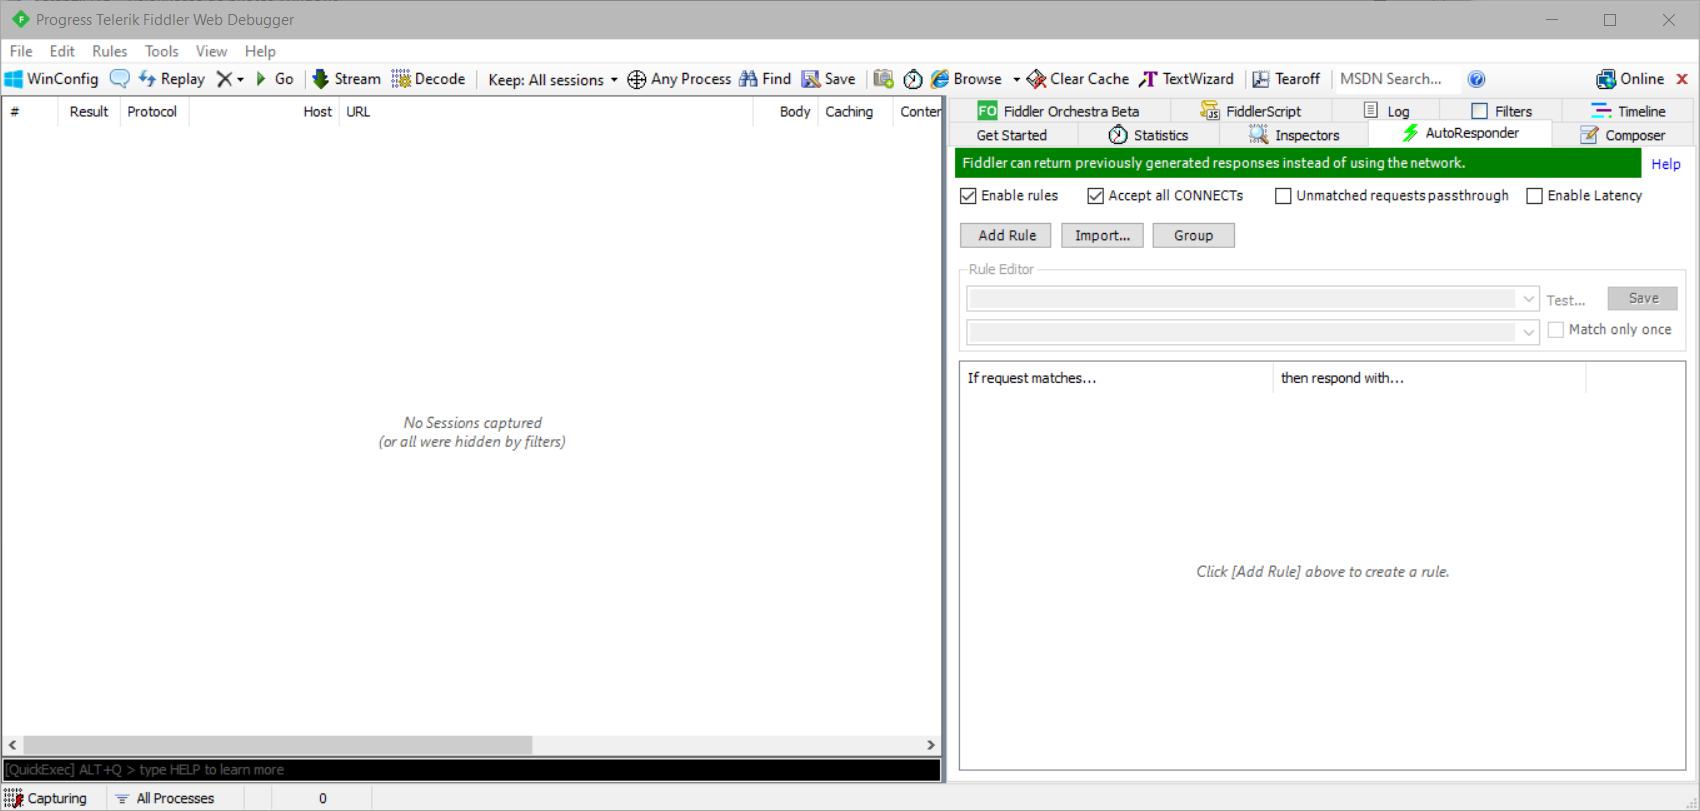
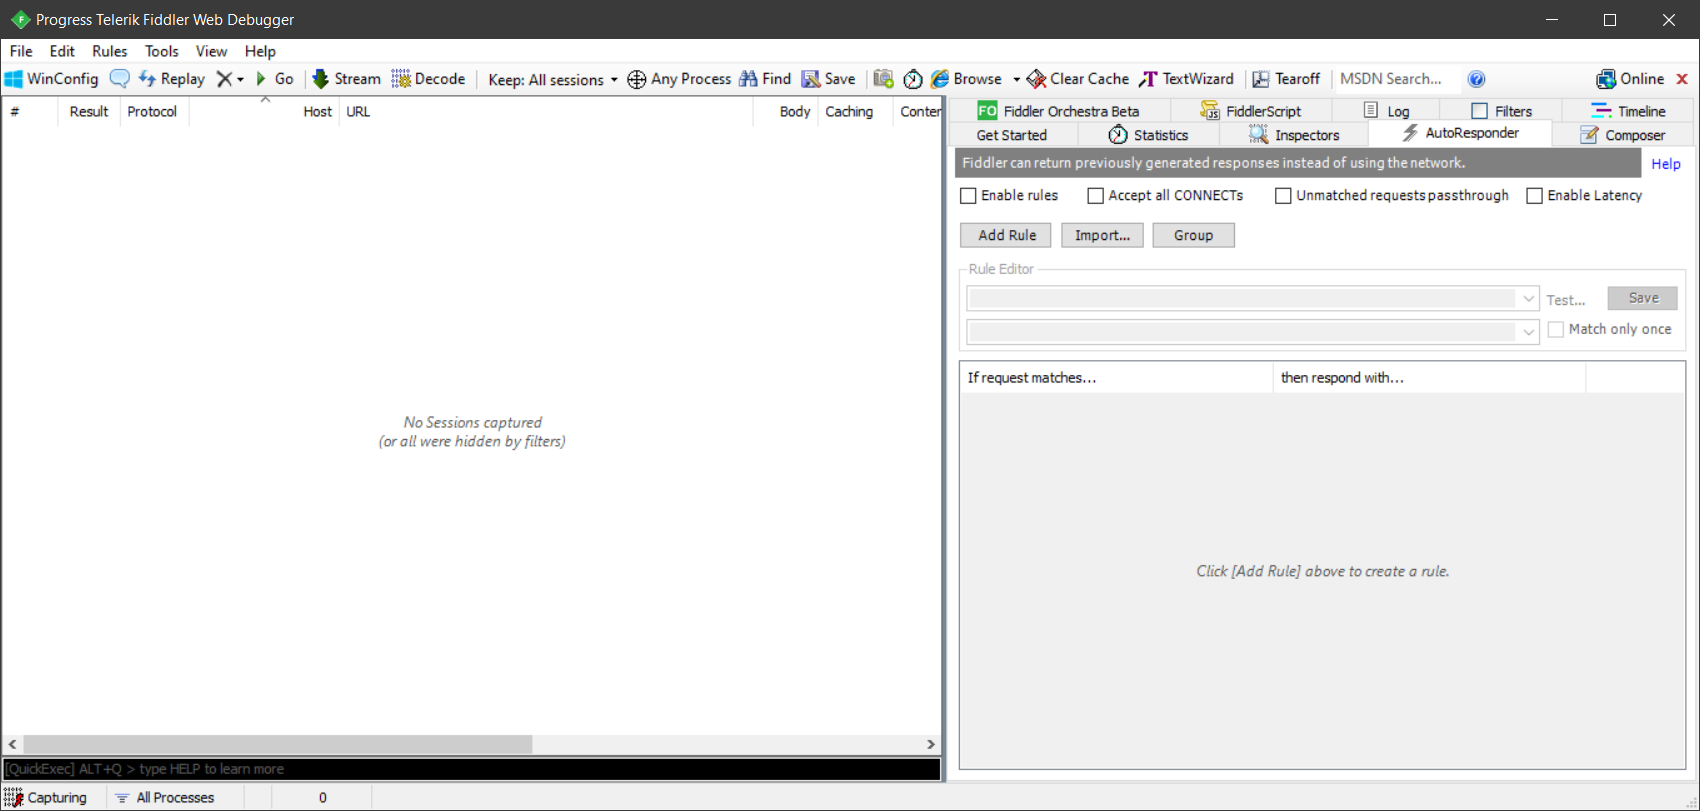
On rédige le readme

diff --git a/README.md b/README.md
@@ -66,7 +66,7 @@ Techniquement, cela suffit pour pouvoir écouter toutes les requêtes HTTP de vo
 Très bien ! Maintenant Fiddler est prêt à écouter les moindres connexions de votre appareil !
 
 Allez maintenant sur l'onglet **AutoResponder** dans le bordel à onglets à droite de la fenêtre, et cochez
-**Enable Rules** et **Accept All CONNECTs**.
+**Accept All CONNECTs**.
 
 ![étape-5](./images/step5.PNG)
 
@@ -79,7 +79,7 @@ gc2018.gczero.com
 et dans l'autre boîte de texte :
 
 ```
-localhost
+http://ipv4.fiddler/
 ```
 
 Cliquez ensuite sur **Save**.
